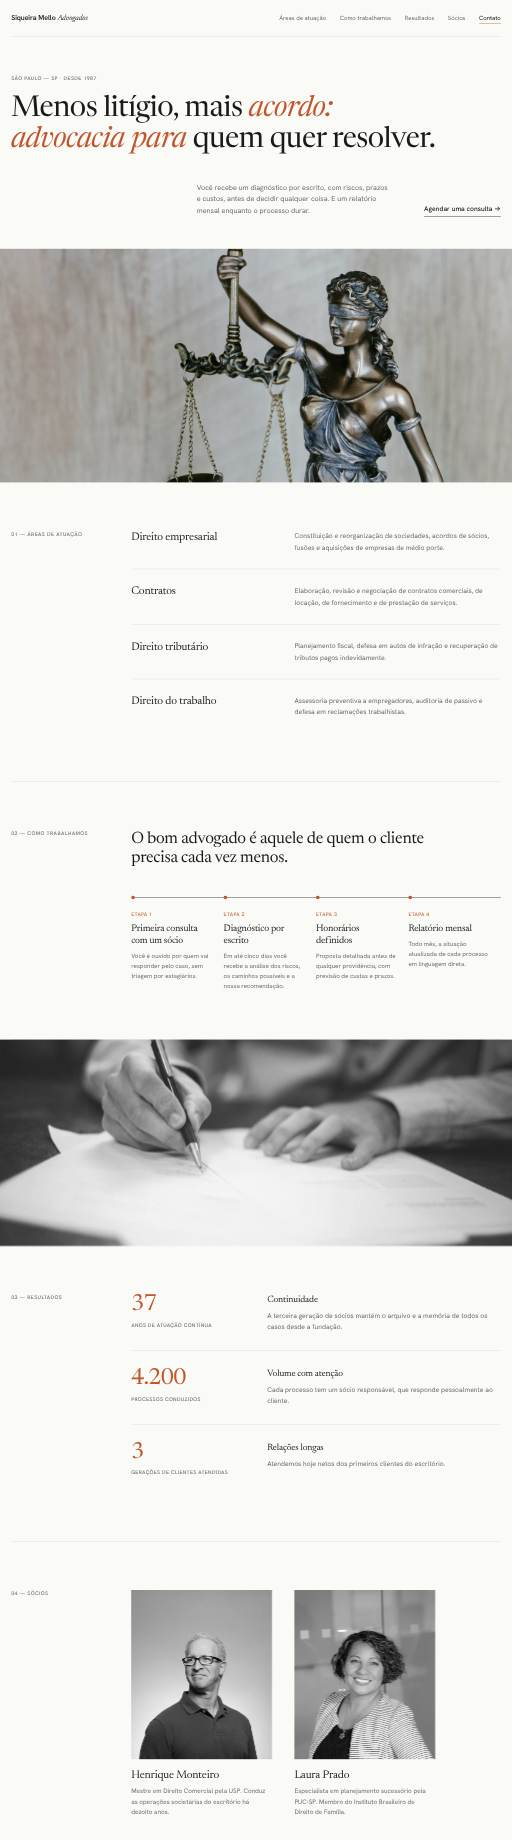
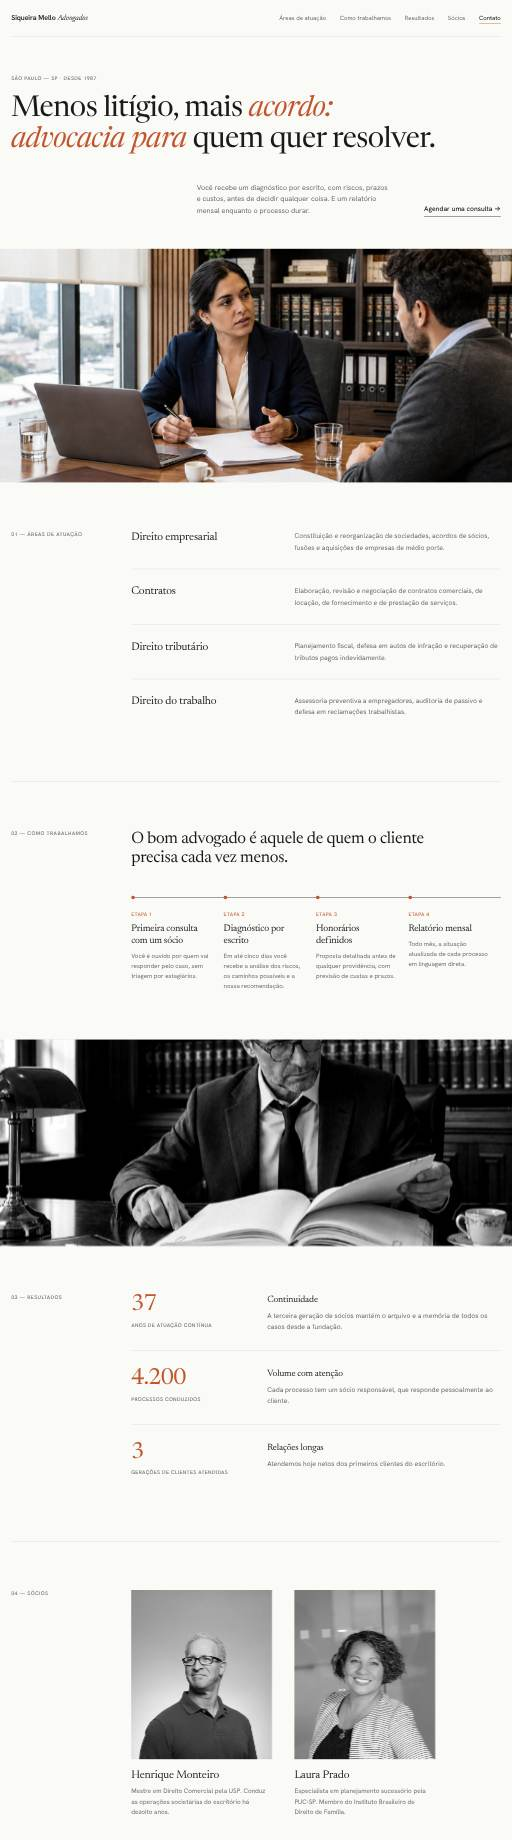
Add new photos for advocacia and saude models
Six new photos for advocacia and two for saude; the generator now
spreads photos so models in a niche with 10+ photos open with
different images. Thumbnails and link previews refreshed.

Claude-Session: https://claude.ai/code/session_0151Yi9K8yWSyYvoKWm1KgPz

Changed region(s): [[0.0, 0.1239, 1.0, 0.2788], [0.0, 0.5576, 1.0, 0.6815]]

diff --git a/kolp-modelos/demo/advocacia-07/index.html b/kolp-modelos/demo/advocacia-07/index.html
@@ -35,7 +35,7 @@
       <p class="lide">Há quase quatro décadas acompanhamos as mesmas famílias e as mesmas empresas. Conhecer a história do cliente é o que nos permite antecipar o problema.</p>
       <div class="acoes"><a class="botao" href="#contato">Agendar uma consulta</a><a class="elo" href="#servicos">Conhecer as áreas de atuação</a></div>
     </div>
-    <figure class="arco"><img src="../../fotos/advocacia/2.jpg" alt="" width="1400" height="930"><figcaption>Desde 1987</figcaption></figure>
+    <figure class="arco"><img src="../../fotos/advocacia/7.jpg" alt="" width="1400" height="930"><figcaption>Desde 1987</figcaption></figure>
   </div>
   <div class="largura"><dl class="indices"><div><dd>37</dd><dt>anos de atuação contínua</dt></div><div><dd>4.200</dd><dt>processos conduzidos</dt></div><div><dd>3</dd><dt>gerações de clientes atendidas</dt></div><div><dd>92%</dd><dt>dos casos resolvidos por acordo ou em primeira instância</dt></div></dl></div>
   </section>
@@ -43,7 +43,7 @@
     <header class="topo rev"><h2>Áreas de atuação</h2><p>Consultivo e contencioso, com equipe dedicada a cada matéria.</p></header>
     <ol class="cartoes"><li class="rev"><h3>Direito empresarial</h3><p>Constituição e reorganização de sociedades, acordos de sócios, fusões e aquisições de empresas de médio porte.</p></li><li class="rev"><h3>Contratos</h3><p>Elaboração, revisão e negociação de contratos comerciais, de locação, de fornecimento e de prestação de serviços.</p></li><li class="rev"><h3>Direito tributário</h3><p>Planejamento fiscal, defesa em autos de infração e recuperação de tributos pagos indevidamente.</p></li><li class="rev"><h3>Direito do trabalho</h3><p>Assessoria preventiva a empregadores, auditoria de passivo e defesa em reclamações trabalhistas.</p></li><li class="rev"><h3>Família e sucessões</h3><p>Inventários, testamentos, partilhas, divórcios e planejamento patrimonial de famílias empresárias.</p></li><li class="rev"><h3>Direito imobiliário</h3><p>Compra e venda, regularização de imóveis, incorporações, usucapião e ações possessórias.</p></li></ol>
   </div></section>
-  <section class="faixa rev"><img src="../../fotos/advocacia/3.jpg" alt="" width="1400" height="930" loading="lazy"><p>“O bom advogado é aquele de quem o cliente precisa cada vez menos.”</p></section>
+  <section class="faixa rev"><img src="../../fotos/advocacia/8.jpg" alt="" width="1400" height="930" loading="lazy"><p>“O bom advogado é aquele de quem o cliente precisa cada vez menos.”</p></section>
   <section class="precos" id="precos"><div class="largura precos-grade">
     <div class="precos-lado rev"><h2>Formas de atendimento</h2><p>Os honorários seguem a tabela da OAB e são combinados por escrito antes de qualquer providência.</p><a class="botao" href="#contato">Agendar uma consulta</a></div>
     <div class="rev"><details open><summary>Consultas</summary><ul><li><div><b>Consulta inicial</b><span>Análise do caso e orientação</span></div><strong>60 min</strong></li><li><div><b>Segunda opinião</b><span>Revisão de processo em andamento</span></div><strong>90 min</strong></li><li><div><b>Atendimento por vídeo</b><span>Para clientes de outras cidades</span></div><strong>45 min</strong></li></ul></details><details><summary>Pareceres</summary><ul><li><div><b>Parecer jurídico</b><span>Resposta fundamentada por escrito</span></div><strong>5 dias úteis</strong></li><li><div><b>Revisão de contrato</b><span>Com sugestão de redação</span></div><strong>3 dias úteis</strong></li><li><div><b>Auditoria de passivo</b><span>Trabalhista, cível e tributário</span></div><strong>20 dias</strong></li></ul></details><details><summary>Assessoria contínua</summary><ul><li><div><b>Plano empresarial</b><span>Consultivo mensal ilimitado</span></div><strong>mensal</strong></li><li><div><b>Plano familiar</b><span>Patrimônio e sucessão</span></div><strong>anual</strong></li><li><div><b>Contencioso</b><span>Honorários por processo</span></div><strong>sob proposta</strong></li></ul></details></div>

diff --git a/kolp-modelos/demo/advocacia-08/index.html b/kolp-modelos/demo/advocacia-08/index.html
@@ -34,17 +34,17 @@
     <p class="lide">Uma equipe enxuta, com atuação nos tribunais de São Paulo e nas cortes superiores, e resposta em até um dia útil.</p>
     <div class="acoes"><a class="botao" href="#contato">Agendar uma consulta</a><a class="elo" href="#servicos">Conhecer as áreas de atuação</a></div>
     <div class="mosaico">
-      <img class="m1" src="../../fotos/advocacia/4.jpg" alt="" width="1400" height="930">
-      <img class="m2" src="../../fotos/advocacia/3.jpg" alt="" width="1400" height="930">
-      <img class="m3" src="../../fotos/advocacia/5.jpg" alt="" width="1400" height="930">
+      <img class="m1" src="../../fotos/advocacia/9.jpg" alt="" width="1400" height="930">
+      <img class="m2" src="../../fotos/advocacia/8.jpg" alt="" width="1400" height="930">
+      <img class="m3" src="../../fotos/advocacia/10.jpg" alt="" width="1400" height="930">
       <p class="selo"><b>37</b>anos de atuação contínua</p>
     </div>
   </div></section>
   <section class="pontos"><ul class="largura"><li class="rev">Primeira consulta com um sócio</li><li class="rev">Honorários definidos por escrito</li><li class="rev">Relatório mensal de andamento</li></ul></section>
   <section class="servicos" id="servicos"><div class="largura">
     <header class="topo rev"><h2>Áreas de atuação</h2><p>Consultivo e contencioso, com equipe dedicada a cada matéria.</p></header>
-    <div class="par rev"><img src="../../fotos/advocacia/1.jpg" alt="" width="1400" height="930" loading="lazy"><ul><li><h3>Direito empresarial</h3><p>Constituição e reorganização de sociedades, acordos de sócios, fusões e aquisições de empresas de médio porte.</p></li><li><h3>Contratos</h3><p>Elaboração, revisão e negociação de contratos comerciais, de locação, de fornecimento e de prestação de serviços.</p></li><li><h3>Direito tributário</h3><p>Planejamento fiscal, defesa em autos de infração e recuperação de tributos pagos indevidamente.</p></li></ul></div>
-    <div class="par par-inv rev"><img src="../../fotos/advocacia/2.jpg" alt="" width="1400" height="930" loading="lazy"><ul><li><h3>Direito do trabalho</h3><p>Assessoria preventiva a empregadores, auditoria de passivo e defesa em reclamações trabalhistas.</p></li><li><h3>Família e sucessões</h3><p>Inventários, testamentos, partilhas, divórcios e planejamento patrimonial de famílias empresárias.</p></li><li><h3>Direito imobiliário</h3><p>Compra e venda, regularização de imóveis, incorporações, usucapião e ações possessórias.</p></li></ul></div>
+    <div class="par rev"><img src="../../fotos/advocacia/11.jpg" alt="" width="1400" height="930" loading="lazy"><ul><li><h3>Direito empresarial</h3><p>Constituição e reorganização de sociedades, acordos de sócios, fusões e aquisições de empresas de médio porte.</p></li><li><h3>Contratos</h3><p>Elaboração, revisão e negociação de contratos comerciais, de locação, de fornecimento e de prestação de serviços.</p></li><li><h3>Direito tributário</h3><p>Planejamento fiscal, defesa em autos de infração e recuperação de tributos pagos indevidamente.</p></li></ul></div>
+    <div class="par par-inv rev"><img src="../../fotos/advocacia/1.jpg" alt="" width="1400" height="930" loading="lazy"><ul><li><h3>Direito do trabalho</h3><p>Assessoria preventiva a empregadores, auditoria de passivo e defesa em reclamações trabalhistas.</p></li><li><h3>Família e sucessões</h3><p>Inventários, testamentos, partilhas, divórcios e planejamento patrimonial de famílias empresárias.</p></li><li><h3>Direito imobiliário</h3><p>Compra e venda, regularização de imóveis, incorporações, usucapião e ações possessórias.</p></li></ul></div>
   </div></section>
   <section class="precos" id="precos"><div class="largura">
     <header class="topo rev"><h2>Formas de atendimento</h2><p>Os honorários seguem a tabela da OAB e são combinados por escrito antes de qualquer providência.</p></header>

diff --git a/kolp-modelos/demo/saude-07/index.html b/kolp-modelos/demo/saude-07/index.html
@@ -35,7 +35,7 @@
       <p class="lide">Atendimento de segunda a sábado, com horários à noite para quem trabalha e encaixe no mesmo dia para casos de dor.</p>
       <div class="acoes"><a class="botao" href="#contato">Agendar avaliação</a><a class="elo" href="#servicos">Ver tratamentos e valores</a></div>
     </div>
-    <figure class="arco"><img src="../../fotos/saude/2.jpg" alt="" width="1400" height="930"><figcaption>Desde 2008</figcaption></figure>
+    <figure class="arco"><img src="../../fotos/saude/7.jpg" alt="" width="1400" height="930"><figcaption>Desde 2008</figcaption></figure>
   </div>
   <div class="largura"><dl class="indices"><div><dd>16</dd><dt>anos cuidando do bairro</dt></div><div><dd>38 mil</dd><dt>pacientes atendidos</dt></div><div><dd>11</dd><dt>especialistas na equipe</dt></div><div><dd>4,9</dd><dt>nota média no Google, em 1.240 avaliações</dt></div></dl></div>
   </section>
@@ -43,7 +43,7 @@
     <header class="topo rev"><h2>Especialidades</h2><p>Todas no mesmo endereço, com prontuário único. Você não repete sua história a cada profissional.</p></header>
     <ol class="cartoes"><li class="rev"><h3>Clínica geral</h3><p>Consulta de rotina, check-up anual, controle de pressão, diabetes e colesterol.</p></li><li class="rev"><h3>Odontologia</h3><p>Limpeza, restaurações, canal, aparelho, implantes e clareamento.</p></li><li class="rev"><h3>Dermatologia</h3><p>Acne, manchas, queda de cabelo, mapeamento de pintas e pequenos procedimentos.</p></li><li class="rev"><h3>Ortopedia</h3><p>Dores na coluna, joelho e ombro, lesões esportivas e acompanhamento pós-cirúrgico.</p></li><li class="rev"><h3>Fisioterapia</h3><p>Reabilitação, pilates clínico, RPG e drenagem, com avaliação postural.</p></li><li class="rev"><h3>Exames de imagem</h3><p>Radiografia digital, ultrassom e eletrocardiograma, com laudo no mesmo dia.</p></li></ol>
   </div></section>
-  <section class="faixa rev"><img src="../../fotos/saude/3.jpg" alt="" width="1400" height="930" loading="lazy"><p>“Ninguém deveria adiar um tratamento por medo ou por falta de explicação.”</p></section>
+  <section class="faixa rev"><img src="../../fotos/saude/1.jpg" alt="" width="1400" height="930" loading="lazy"><p>“Ninguém deveria adiar um tratamento por medo ou por falta de explicação.”</p></section>
   <section class="precos" id="precos"><div class="largura precos-grade">
     <div class="precos-lado rev"><h2>Tratamentos e valores</h2><p>Valores de referência para atendimento particular. Convênios aceitos: Amil, Bradesco, SulAmérica e Unimed.</p><a class="botao" href="#contato">Agendar avaliação</a></div>
     <div class="rev"><details open><summary>Consultas</summary><ul><li><div><b>Consulta com clínico geral</b><span>Com retorno em até 15 dias</span></div><strong>R$ 180</strong></li><li><div><b>Consulta com especialista</b><span>Dermato, ortopedia ou cardiologia</span></div><strong>R$ 260</strong></li><li><div><b>Avaliação odontológica</b><span>Inclui radiografia panorâmica</span></div><strong>R$ 150</strong></li><li><div><b>Teleconsulta</b><span>Retornos e resultados de exames</span></div><strong>R$ 120</strong></li></ul></details><details><summary>Procedimentos</summary><ul><li><div><b>Limpeza dental completa</b><span>Profilaxia e aplicação de flúor</span></div><strong>R$ 220</strong></li><li><div><b>Clareamento dental</b><span>Consultório e moldeira caseira</span></div><strong>R$ 690</strong></li><li><div><b>Sessão de fisioterapia</b><span>50 minutos, individual</span></div><strong>R$ 130</strong></li></ul></details><details><summary>Exames</summary><ul><li><div><b>Check-up essencial</b><span>Consulta, sangue e eletrocardiograma</span></div><strong>R$ 480</strong></li><li><div><b>Ultrassom</b><span>Abdome, tireoide ou articulações</span></div><strong>R$ 210</strong></li><li><div><b>Radiografia digital</b><span>Laudo em até 2 horas</span></div><strong>R$ 95</strong></li></ul></details></div>

diff --git a/kolp-modelos/demo/saude-08/index.html b/kolp-modelos/demo/saude-08/index.html
@@ -34,17 +34,17 @@
     <p class="lide">Você sai da primeira consulta com o diagnóstico, as opções de tratamento, os prazos e os valores por escrito.</p>
     <div class="acoes"><a class="botao" href="#contato">Agendar avaliação</a><a class="elo" href="#servicos">Ver tratamentos e valores</a></div>
     <div class="mosaico">
-      <img class="m1" src="../../fotos/saude/4.jpg" alt="" width="1400" height="930">
-      <img class="m2" src="../../fotos/saude/3.jpg" alt="" width="1400" height="930">
-      <img class="m3" src="../../fotos/saude/5.jpg" alt="" width="1400" height="930">
+      <img class="m1" src="../../fotos/saude/2.jpg" alt="" width="1400" height="930">
+      <img class="m2" src="../../fotos/saude/1.jpg" alt="" width="1400" height="930">
+      <img class="m3" src="../../fotos/saude/3.jpg" alt="" width="1400" height="930">
       <p class="selo"><b>16</b>anos cuidando do bairro</p>
     </div>
   </div></section>
   <section class="pontos"><ul class="largura"><li class="rev">Atendimento de segunda a sábado, até as 20h</li><li class="rev">Parcelamento em até 12 vezes sem juros</li><li class="rev">Encaixe no mesmo dia para urgências</li></ul></section>
   <section class="servicos" id="servicos"><div class="largura">
     <header class="topo rev"><h2>Especialidades</h2><p>Todas no mesmo endereço, com prontuário único. Você não repete sua história a cada profissional.</p></header>
-    <div class="par rev"><img src="../../fotos/saude/1.jpg" alt="" width="1400" height="930" loading="lazy"><ul><li><h3>Clínica geral</h3><p>Consulta de rotina, check-up anual, controle de pressão, diabetes e colesterol.</p></li><li><h3>Odontologia</h3><p>Limpeza, restaurações, canal, aparelho, implantes e clareamento.</p></li><li><h3>Dermatologia</h3><p>Acne, manchas, queda de cabelo, mapeamento de pintas e pequenos procedimentos.</p></li></ul></div>
-    <div class="par par-inv rev"><img src="../../fotos/saude/2.jpg" alt="" width="1400" height="930" loading="lazy"><ul><li><h3>Ortopedia</h3><p>Dores na coluna, joelho e ombro, lesões esportivas e acompanhamento pós-cirúrgico.</p></li><li><h3>Fisioterapia</h3><p>Reabilitação, pilates clínico, RPG e drenagem, com avaliação postural.</p></li><li><h3>Exames de imagem</h3><p>Radiografia digital, ultrassom e eletrocardiograma, com laudo no mesmo dia.</p></li></ul></div>
+    <div class="par rev"><img src="../../fotos/saude/4.jpg" alt="" width="1400" height="930" loading="lazy"><ul><li><h3>Clínica geral</h3><p>Consulta de rotina, check-up anual, controle de pressão, diabetes e colesterol.</p></li><li><h3>Odontologia</h3><p>Limpeza, restaurações, canal, aparelho, implantes e clareamento.</p></li><li><h3>Dermatologia</h3><p>Acne, manchas, queda de cabelo, mapeamento de pintas e pequenos procedimentos.</p></li></ul></div>
+    <div class="par par-inv rev"><img src="../../fotos/saude/5.jpg" alt="" width="1400" height="930" loading="lazy"><ul><li><h3>Ortopedia</h3><p>Dores na coluna, joelho e ombro, lesões esportivas e acompanhamento pós-cirúrgico.</p></li><li><h3>Fisioterapia</h3><p>Reabilitação, pilates clínico, RPG e drenagem, com avaliação postural.</p></li><li><h3>Exames de imagem</h3><p>Radiografia digital, ultrassom e eletrocardiograma, com laudo no mesmo dia.</p></li></ul></div>
   </div></section>
   <section class="precos" id="precos"><div class="largura">
     <header class="topo rev"><h2>Tratamentos e valores</h2><p>Valores de referência para atendimento particular. Convênios aceitos: Amil, Bradesco, SulAmérica e Unimed.</p></header>

diff --git a/kolp-modelos/demo/advocacia-10/index.html b/kolp-modelos/demo/advocacia-10/index.html
@@ -30,7 +30,7 @@
 <div class="conteudo">
 <main>
   <section class="abertura">
-    <img src="../../fotos/advocacia/5.jpg" alt="" width="1400" height="930">
+    <img src="../../fotos/advocacia/10.jpg" alt="" width="1400" height="930">
     <div class="legenda"><p class="rotulo">Desde 1987 · São Paulo — SP</p><h1>Advocacia de sócios: quem atende você é quem assina a petição.</h1></div>
   </section>
   <section class="sobre" id="sobre">
@@ -41,7 +41,7 @@
     <header class="topo"><h2>Áreas de atuação</h2><p>Consultivo e contencioso, com equipe dedicada a cada matéria.</p></header>
     <ul class="servicos"><li><h3>Direito empresarial</h3><p>Constituição e reorganização de sociedades, acordos de sócios, fusões e aquisições de empresas de médio porte.</p></li><li><h3>Contratos</h3><p>Elaboração, revisão e negociação de contratos comerciais, de locação, de fornecimento e de prestação de serviços.</p></li><li><h3>Direito tributário</h3><p>Planejamento fiscal, defesa em autos de infração e recuperação de tributos pagos indevidamente.</p></li><li><h3>Direito do trabalho</h3><p>Assessoria preventiva a empregadores, auditoria de passivo e defesa em reclamações trabalhistas.</p></li><li><h3>Família e sucessões</h3><p>Inventários, testamentos, partilhas, divórcios e planejamento patrimonial de famílias empresárias.</p></li><li><h3>Direito imobiliário</h3><p>Compra e venda, regularização de imóveis, incorporações, usucapião e ações possessórias.</p></li></ul>
   </section>
-  <figure class="citacao"><img src="../../fotos/advocacia/1.jpg" alt="" width="1400" height="930" loading="lazy"><blockquote>“O bom advogado é aquele de quem o cliente precisa cada vez menos.”</blockquote></figure>
+  <figure class="citacao"><img src="../../fotos/advocacia/11.jpg" alt="" width="1400" height="930" loading="lazy"><blockquote>“O bom advogado é aquele de quem o cliente precisa cada vez menos.”</blockquote></figure>
   <section id="equipe">
     <header class="topo"><h2>Sócios</h2><p>Formados pelas principais faculdades de Direito do país, com atuação nos tribunais superiores.</p></header>
     <div class="equipe"><article><img src="../../fotos/retratos/m1.jpg" alt="Retrato de Henrique Monteiro" width="560" height="680" loading="lazy"><div><h3>Henrique Monteiro</h3><p class="cargo">Empresarial e contratos · OAB/SP 142.817</p><p>Mestre em Direito Comercial pela USP. Conduz as operações societárias do escritório há dezoito anos.</p></div></article><article><img src="../../fotos/retratos/f1.jpg" alt="Retrato de Laura Prado" width="560" height="680" loading="lazy"><div><h3>Laura Prado</h3><p class="cargo">Família e sucessões · OAB/SP 198.340</p><p>Especialista em planejamento sucessório pela PUC-SP. Membro do Instituto Brasileiro de Direito de Família.</p></div></article><article><img src="../../fotos/retratos/m2.jpg" alt="Retrato de Rogério Sampaio" width="560" height="680" loading="lazy"><div><h3>Rogério Sampaio</h3><p class="cargo">Tributário · OAB/SP 121.055</p><p>Ex-conselheiro do Tribunal de Impostos e Taxas de São Paulo. Professor de Direito Tributário.</p></div></article></div>

diff --git a/kolp-modelos/demo/saude-10/index.html b/kolp-modelos/demo/saude-10/index.html
@@ -30,7 +30,7 @@
 <div class="conteudo">
 <main>
   <section class="abertura">
-    <img src="../../fotos/saude/5.jpg" alt="" width="1400" height="930">
+    <img src="../../fotos/saude/3.jpg" alt="" width="1400" height="930">
     <div class="legenda"><p class="rotulo">Desde 2008 · Moema · a 300 m do metrô</p><h1>A clínica onde o médico lembra o seu nome e o seu histórico.</h1></div>
   </section>
   <section class="sobre" id="sobre">
@@ -41,7 +41,7 @@
     <header class="topo"><h2>Especialidades</h2><p>Todas no mesmo endereço, com prontuário único. Você não repete sua história a cada profissional.</p></header>
     <ul class="servicos"><li><h3>Clínica geral</h3><p>Consulta de rotina, check-up anual, controle de pressão, diabetes e colesterol.</p></li><li><h3>Odontologia</h3><p>Limpeza, restaurações, canal, aparelho, implantes e clareamento.</p></li><li><h3>Dermatologia</h3><p>Acne, manchas, queda de cabelo, mapeamento de pintas e pequenos procedimentos.</p></li><li><h3>Ortopedia</h3><p>Dores na coluna, joelho e ombro, lesões esportivas e acompanhamento pós-cirúrgico.</p></li><li><h3>Fisioterapia</h3><p>Reabilitação, pilates clínico, RPG e drenagem, com avaliação postural.</p></li><li><h3>Exames de imagem</h3><p>Radiografia digital, ultrassom e eletrocardiograma, com laudo no mesmo dia.</p></li></ul>
   </section>
-  <figure class="citacao"><img src="../../fotos/saude/1.jpg" alt="" width="1400" height="930" loading="lazy"><blockquote>“Ninguém deveria adiar um tratamento por medo ou por falta de explicação.”</blockquote></figure>
+  <figure class="citacao"><img src="../../fotos/saude/4.jpg" alt="" width="1400" height="930" loading="lazy"><blockquote>“Ninguém deveria adiar um tratamento por medo ou por falta de explicação.”</blockquote></figure>
   <section id="equipe">
     <header class="topo"><h2>Quem cuida de você</h2><p>Profissionais com especialização registrada no conselho. A direção clínica é das fundadoras.</p></header>
     <div class="equipe"><article><img src="../../fotos/retratos/f2.jpg" alt="Retrato de Dra. Marina Castilho" width="560" height="680" loading="lazy"><div><h3>Dra. Marina Castilho</h3><p class="cargo">Diretora clínica · CRO-SP 78.412</p><p>Especialista pela USP, com quinze anos dedicados à reabilitação oral.</p></div></article><article><img src="../../fotos/retratos/m2.jpg" alt="Retrato de Dr. André Vilela" width="560" height="680" loading="lazy"><div><h3>Dr. André Vilela</h3><p class="cargo">Clínico geral · CRM-SP 132.550</p><p>Residência em Medicina de Família pela Unifesp. Atende adultos e idosos.</p></div></article><article><img src="../../fotos/retratos/f3.jpg" alt="Retrato de Dra. Beatriz Nogueira" width="560" height="680" loading="lazy"><div><h3>Dra. Beatriz Nogueira</h3><p class="cargo">Dermatologia · CRM-SP 148.206</p><p>Título de especialista pela Sociedade Brasileira de Dermatologia.</p></div></article></div>

diff --git a/kolp-modelos/demo/advocacia-06/index.html b/kolp-modelos/demo/advocacia-06/index.html
@@ -33,7 +33,7 @@
       <h1 class="rev">Menos litígio, mais <em>acordo: advocacia para</em> quem quer resolver.</h1>
       <div class="abertura-base rev"><p>Você recebe um diagnóstico por escrito, com riscos, prazos e custos, antes de decidir qualquer coisa. E um relatório mensal enquanto o processo durar.</p><a class="seta" href="#contato">Agendar uma consulta</a></div>
     </div>
-    <figure class="abertura-foto rev"><img src="../../fotos/advocacia/1.jpg" alt="" width="1400" height="930"></figure>
+    <figure class="abertura-foto rev"><img src="../../fotos/advocacia/6.jpg" alt="" width="1400" height="930"></figure>
   </section>
   <section class="frentes" id="servicos"><div class="largura bloco">
     <h2 class="rotulo">01 — Áreas de atuação</h2>
@@ -44,7 +44,7 @@
     <div><p class="frase rev">O bom advogado é aquele de quem o cliente precisa cada vez menos.</p>
       <ol class="etapas"><li class="rev"><span>Etapa 1</span><h3>Primeira consulta com um sócio</h3><p>Você é ouvido por quem vai responder pelo caso, sem triagem por estagiários.</p></li><li class="rev"><span>Etapa 2</span><h3>Diagnóstico por escrito</h3><p>Em até cinco dias você recebe a análise dos riscos, os caminhos possíveis e a nossa recomendação.</p></li><li class="rev"><span>Etapa 3</span><h3>Honorários definidos</h3><p>Proposta detalhada antes de qualquer providência, com previsão de custas e prazos.</p></li><li class="rev"><span>Etapa 4</span><h3>Relatório mensal</h3><p>Todo mês, a situação atualizada de cada processo em linguagem direta.</p></li></ol></div>
   </div></section>
-  <figure class="faixa-foto rev"><img src="../../fotos/advocacia/2.jpg" alt="" width="1400" height="930" loading="lazy"></figure>
+  <figure class="faixa-foto rev"><img src="../../fotos/advocacia/7.jpg" alt="" width="1400" height="930" loading="lazy"></figure>
   <section class="casos" id="resultados"><div class="largura bloco">
     <h2 class="rotulo">03 — Resultados</h2>
     <div><article class="rev"><p class="resultado">37<small>anos de atuação contínua</small></p><div><h3>Continuidade</h3><p>A terceira geração de sócios mantém o arquivo e a memória de todos os casos desde a fundação.</p></div></article><article class="rev"><p class="resultado">4.200<small>processos conduzidos</small></p><div><h3>Volume com atenção</h3><p>Cada processo tem um sócio responsável, que responde pessoalmente ao cliente.</p></div></article><article class="rev"><p class="resultado">3<small>gerações de clientes atendidas</small></p><div><h3>Relações longas</h3><p>Atendemos hoje netos dos primeiros clientes do escritório.</p></div></article></div>

diff --git a/kolp-modelos/demo/saude-06/index.html b/kolp-modelos/demo/saude-06/index.html
@@ -33,7 +33,7 @@
       <h1 class="rev">Pele bem cuidada é <em>resultado de diagnóstico,</em> não de moda.</h1>
       <div class="abertura-base rev"><p>Onze profissionais com especialização registrada no conselho, prontuário único e retorno garantido em até quinze dias.</p><a class="seta" href="#contato">Agendar avaliação</a></div>
     </div>
-    <figure class="abertura-foto rev"><img src="../../fotos/saude/1.jpg" alt="" width="1400" height="930"></figure>
+    <figure class="abertura-foto rev"><img src="../../fotos/saude/6.jpg" alt="" width="1400" height="930"></figure>
   </section>
   <section class="frentes" id="servicos"><div class="largura bloco">
     <h2 class="rotulo">01 — Especialidades</h2>
@@ -44,7 +44,7 @@
     <div><p class="frase rev">Ninguém deveria adiar um tratamento por medo ou por falta de explicação.</p>
       <ol class="etapas"><li class="rev"><span>Etapa 1</span><h3>Conversa</h3><p>Você conta o que incomoda e o que espera. Sem pressa e sem cadeira reclinada.</p></li><li class="rev"><span>Etapa 2</span><h3>Exame e imagem</h3><p>Avaliação clínica e exames de imagem feitos na hora, no mesmo andar.</p></li><li class="rev"><span>Etapa 3</span><h3>Plano por escrito</h3><p>Você sai com o diagnóstico, as opções de tratamento, os prazos e os valores.</p></li><li class="rev"><span>Etapa 4</span><h3>Decisão sua</h3><p>Sem pressão para fechar. O orçamento vale por 60 dias.</p></li></ol></div>
   </div></section>
-  <figure class="faixa-foto rev"><img src="../../fotos/saude/2.jpg" alt="" width="1400" height="930" loading="lazy"></figure>
+  <figure class="faixa-foto rev"><img src="../../fotos/saude/7.jpg" alt="" width="1400" height="930" loading="lazy"></figure>
   <section class="casos" id="resultados"><div class="largura bloco">
     <h2 class="rotulo">03 — Resultados</h2>
     <div><article class="rev"><p class="resultado">16<small>anos cuidando do bairro</small></p><div><h3>Vizinhança</h3><p>Seis em cada dez pacientes chegam por indicação de alguém da família.</p></div></article><article class="rev"><p class="resultado">38 mil<small>pacientes atendidos</small></p><div><h3>Prontuário único</h3><p>Seu histórico acompanha você em todas as especialidades da clínica.</p></div></article><article class="rev"><p class="resultado">11<small>especialistas na equipe</small></p><div><h3>Equipe estável</h3><p>Os mesmos profissionais atendem aqui há mais de oito anos, em média.</p></div></article></div>

diff --git a/kolp-modelos/demo/saude-09/index.html b/kolp-modelos/demo/saude-09/index.html
@@ -30,7 +30,7 @@
 </div></header>
 <main>
   <section class="abertura">
-    <img src="../../fotos/saude/4.jpg" alt="" width="1400" height="930">
+    <img src="../../fotos/saude/2.jpg" alt="" width="1400" height="930">
     <div class="abertura-bloco"><div>
       <p class="rotulo">Moema · a 300 m do metrô</p>
       <h1>Da torção no futebol à cirurgia de joelho, com o mesmo médico.</h1>
@@ -51,7 +51,7 @@
     <header class="topo"><h2>Tratamentos e valores</h2><p>Valores de referência para atendimento particular. Convênios aceitos: Amil, Bradesco, SulAmérica e Unimed.</p></header>
     <div class="tabela-rolagem"><table><tbody><tr class="grupo"><th colspan="3">Consultas</th></tr><tr><th>Consulta com clínico geral</th><td>Com retorno em até 15 dias</td><td>R$ 180</td></tr><tr><th>Consulta com especialista</th><td>Dermato, ortopedia ou cardiologia</td><td>R$ 260</td></tr><tr><th>Avaliação odontológica</th><td>Inclui radiografia panorâmica</td><td>R$ 150</td></tr><tr><th>Teleconsulta</th><td>Retornos e resultados de exames</td><td>R$ 120</td></tr></tbody><tbody><tr class="grupo"><th colspan="3">Procedimentos</th></tr><tr><th>Limpeza dental completa</th><td>Profilaxia e aplicação de flúor</td><td>R$ 220</td></tr><tr><th>Clareamento dental</th><td>Consultório e moldeira caseira</td><td>R$ 690</td></tr><tr><th>Sessão de fisioterapia</th><td>50 minutos, individual</td><td>R$ 130</td></tr></tbody><tbody><tr class="grupo"><th colspan="3">Exames</th></tr><tr><th>Check-up essencial</th><td>Consulta, sangue e eletrocardiograma</td><td>R$ 480</td></tr><tr><th>Ultrassom</th><td>Abdome, tireoide ou articulações</td><td>R$ 210</td></tr><tr><th>Radiografia digital</th><td>Laudo em até 2 horas</td><td>R$ 95</td></tr></tbody></table></div>
   </div></section>
-  <section class="prova"><img src="../../fotos/saude/5.jpg" alt="" width="1400" height="930" loading="lazy">
+  <section class="prova"><img src="../../fotos/saude/3.jpg" alt="" width="1400" height="930" loading="lazy">
     <blockquote><p>“Fugi de dentista por dez anos. Aqui me explicaram cada etapa, mostraram a radiografia na tela e respeitaram o meu tempo. Terminei o tratamento sem faltar a uma consulta.”</p><footer><b>Renata Queiroz</b> paciente desde 2019</footer></blockquote>
   </section>
   <section class="contato" id="contato"><div class="largura contato-grade">

diff --git a/kolp-modelos/demo/advocacia-05/index.html b/kolp-modelos/demo/advocacia-05/index.html
@@ -46,13 +46,13 @@
     <ul class="secoes-lista"><li><b>Direito empresarial</b><span>Constituição e reorganização de sociedades, acordos de sócios, fusões e aquisições de empresas de médio porte.</span></li><li><b>Contratos</b><span>Elaboração, revisão e negociação de contratos comerciais, de locação, de fornecimento e de prestação de serviços.</span></li><li><b>Direito tributário</b><span>Planejamento fiscal, defesa em autos de infração e recuperação de tributos pagos indevidamente.</span></li><li><b>Direito do trabalho</b><span>Assessoria preventiva a empregadores, auditoria de passivo e defesa em reclamações trabalhistas.</span></li><li><b>Família e sucessões</b><span>Inventários, testamentos, partilhas, divórcios e planejamento patrimonial de famílias empresárias.</span></li><li><b>Direito imobiliário</b><span>Compra e venda, regularização de imóveis, incorporações, usucapião e ações possessórias.</span></li></ul>
   </div></section>
   <section class="pedir" id="processo"><div class="largura pedir-grade">
-    <img src="../../fotos/advocacia/1.jpg" alt="" width="1400" height="930" loading="lazy">
+    <img src="../../fotos/advocacia/6.jpg" alt="" width="1400" height="930" loading="lazy">
     <div><h2>Como trabalhamos</h2>
       <ol><li><b>Primeira consulta com um sócio</b>Você é ouvido por quem vai responder pelo caso, sem triagem por estagiários.</li><li><b>Diagnóstico por escrito</b>Em até cinco dias você recebe a análise dos riscos, os caminhos possíveis e a nossa recomendação.</li><li><b>Honorários definidos</b>Proposta detalhada antes de qualquer providência, com previsão de custas e prazos.</li></ol>
       <a class="botao botao-grande" href="https://wa.me/5511999999999?text=Ol%C3%A1!%20Vim%20pelo%20site.">Agendar uma consulta</a></div>
   </div></section>
   <section class="loja" id="local">
-    <img class="loja-fundo" src="../../fotos/advocacia/2.jpg" alt="" width="1400" height="930" loading="lazy">
+    <img class="loja-fundo" src="../../fotos/advocacia/7.jpg" alt="" width="1400" height="930" loading="lazy">
     <div class="largura loja-grade"><div class="cartao">
       <h2>Agende uma consulta com um dos sócios</h2>
       <p class="endereco">Av. Brigadeiro Luís Antônio, 2.344 — 9º andar, Jardim Paulista</p>

diff --git a/kolp-modelos/demo/advocacia-09/index.html b/kolp-modelos/demo/advocacia-09/index.html
@@ -30,7 +30,7 @@
 </div></header>
 <main>
   <section class="abertura">
-    <img src="../../fotos/advocacia/4.jpg" alt="" width="1400" height="930">
+    <img src="../../fotos/advocacia/9.jpg" alt="" width="1400" height="930">
     <div class="abertura-bloco"><div>
       <p class="rotulo">São Paulo — SP</p>
       <h1>Quando o contrato é bem feito, o processo nem começa.</h1>
@@ -51,7 +51,7 @@
     <header class="topo"><h2>Formas de atendimento</h2><p>Os honorários seguem a tabela da OAB e são combinados por escrito antes de qualquer providência.</p></header>
     <div class="tabela-rolagem"><table><tbody><tr class="grupo"><th colspan="3">Consultas</th></tr><tr><th>Consulta inicial</th><td>Análise do caso e orientação</td><td>60 min</td></tr><tr><th>Segunda opinião</th><td>Revisão de processo em andamento</td><td>90 min</td></tr><tr><th>Atendimento por vídeo</th><td>Para clientes de outras cidades</td><td>45 min</td></tr></tbody><tbody><tr class="grupo"><th colspan="3">Pareceres</th></tr><tr><th>Parecer jurídico</th><td>Resposta fundamentada por escrito</td><td>5 dias úteis</td></tr><tr><th>Revisão de contrato</th><td>Com sugestão de redação</td><td>3 dias úteis</td></tr><tr><th>Auditoria de passivo</th><td>Trabalhista, cível e tributário</td><td>20 dias</td></tr></tbody><tbody><tr class="grupo"><th colspan="3">Assessoria contínua</th></tr><tr><th>Plano empresarial</th><td>Consultivo mensal ilimitado</td><td>mensal</td></tr><tr><th>Plano familiar</th><td>Patrimônio e sucessão</td><td>anual</td></tr><tr><th>Contencioso</th><td>Honorários por processo</td><td>sob proposta</td></tr></tbody></table></div>
   </div></section>
-  <section class="prova"><img src="../../fotos/advocacia/5.jpg" alt="" width="1400" height="930" loading="lazy">
+  <section class="prova"><img src="../../fotos/advocacia/10.jpg" alt="" width="1400" height="930" loading="lazy">
     <blockquote><p>“Em vinte anos de empresa, foi o primeiro escritório que me disse para não entrar com a ação. Fizemos um acordo em três meses e mantive o fornecedor.”</p><footer><b>Marcelo Antunes</b> diretor de indústria metalúrgica, cliente desde 2011</footer></blockquote>
   </section>
   <section class="contato" id="contato"><div class="largura contato-grade">

diff --git a/kolp-modelos/demo/saude-05/index.html b/kolp-modelos/demo/saude-05/index.html
@@ -46,13 +46,13 @@
     <ul class="secoes-lista"><li><b>Clínica geral</b><span>Consulta de rotina, check-up anual, controle de pressão, diabetes e colesterol.</span></li><li><b>Odontologia</b><span>Limpeza, restaurações, canal, aparelho, implantes e clareamento.</span></li><li><b>Dermatologia</b><span>Acne, manchas, queda de cabelo, mapeamento de pintas e pequenos procedimentos.</span></li><li><b>Ortopedia</b><span>Dores na coluna, joelho e ombro, lesões esportivas e acompanhamento pós-cirúrgico.</span></li><li><b>Fisioterapia</b><span>Reabilitação, pilates clínico, RPG e drenagem, com avaliação postural.</span></li><li><b>Exames de imagem</b><span>Radiografia digital, ultrassom e eletrocardiograma, com laudo no mesmo dia.</span></li></ul>
   </div></section>
   <section class="pedir" id="processo"><div class="largura pedir-grade">
-    <img src="../../fotos/saude/1.jpg" alt="" width="1400" height="930" loading="lazy">
+    <img src="../../fotos/saude/6.jpg" alt="" width="1400" height="930" loading="lazy">
     <div><h2>Como é a primeira consulta</h2>
       <ol><li><b>Conversa</b>Você conta o que incomoda e o que espera. Sem pressa e sem cadeira reclinada.</li><li><b>Exame e imagem</b>Avaliação clínica e exames de imagem feitos na hora, no mesmo andar.</li><li><b>Plano por escrito</b>Você sai com o diagnóstico, as opções de tratamento, os prazos e os valores.</li></ol>
       <a class="botao botao-grande" href="https://wa.me/5511999999999?text=Ol%C3%A1!%20Vim%20pelo%20site.">Agendar avaliação</a></div>
   </div></section>
   <section class="loja" id="local">
-    <img class="loja-fundo" src="../../fotos/saude/2.jpg" alt="" width="1400" height="930" loading="lazy">
+    <img class="loja-fundo" src="../../fotos/saude/7.jpg" alt="" width="1400" height="930" loading="lazy">
     <div class="largura loja-grade"><div class="cartao">
       <h2>Está com dor agora? Fale com a gente</h2>
       <p class="endereco">Alameda dos Arapanés, 1.020 — Moema, São Paulo</p>
